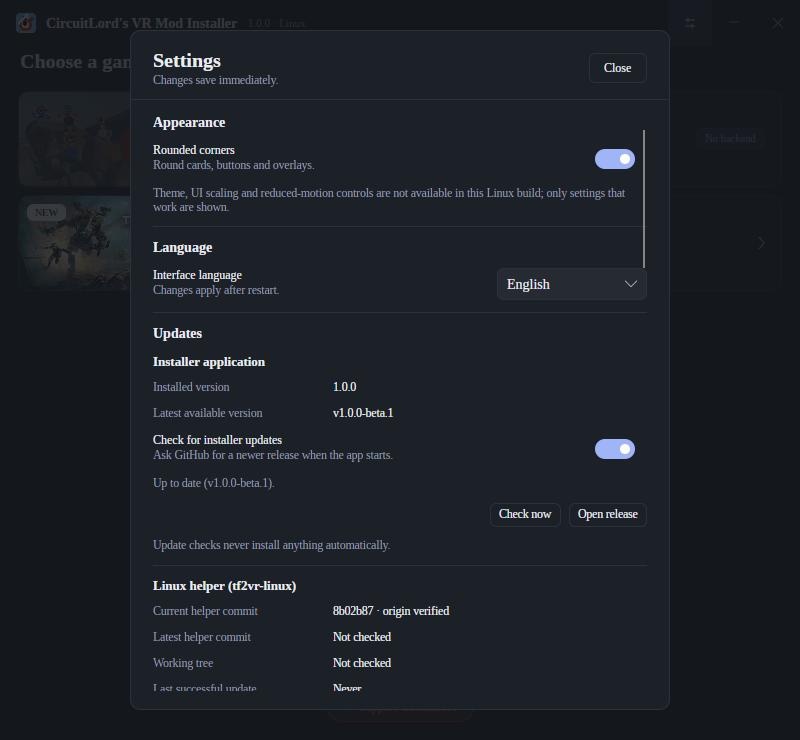
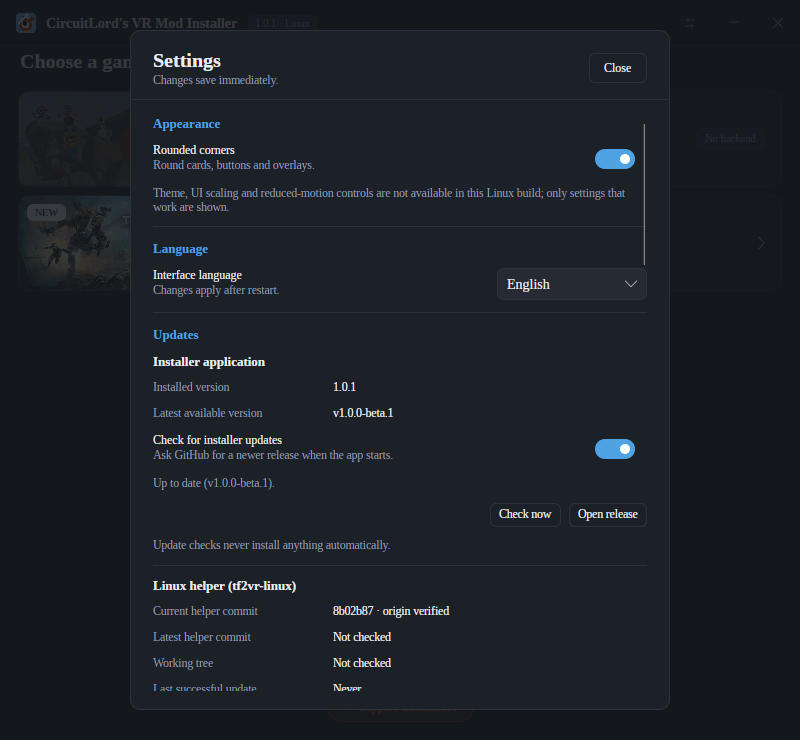
Polish the Linux interface
Frame the version in the title bar, replace the tiny back glyph, align Fluent toggles and selection states with the app accent, and slim the dark scrollbars. Improve settings section hierarchy and focus handling, remove duplicated not-installed labels, and refresh the documentation screenshots.

🤖 Generated with Codebuff

diff --git a/src/CircuitLord.VRModInstaller.App/SettingsView.axaml.cs b/src/CircuitLord.VRModInstaller.App/SettingsView.axaml.cs
@@ -52,7 +52,22 @@ public partial class SettingsView : UserControl
         this.FindControl<ScrollViewer>("SettingsScroll")!.Offset = new Vector(0, 0);
         _loading = false;
         RefreshAll();
-        this.FindControl<Button>("SettingsCloseButton")!.Focus();
+        // The overlay is only becoming visible in this pass. Move keyboard
+        // focus after layout so it cannot remain on the title-bar gear behind
+        // the modal sheet.
+        Avalonia.Threading.Dispatcher.UIThread.Post(
+            () =>
+            {
+                if (IsVisible)
+                {
+                    // Move through the sheet itself first; Avalonia otherwise
+                    // leaves the old title-bar focus adorner painted until the
+                    // next keyboard navigation.
+                    Focus();
+                    this.FindControl<Button>("SettingsCloseButton")!.Focus();
+                }
+            },
+            Avalonia.Threading.DispatcherPriority.Loaded);
     }
 
     private void CloseSettings()

diff --git a/src/CircuitLord.VRModInstaller.App/MainWindow.axaml.cs b/src/CircuitLord.VRModInstaller.App/MainWindow.axaml.cs
@@ -53,6 +53,12 @@ public partial class MainWindow : Window
         this.FindControl<TextBlock>("ChannelValue")!.Text = _vm.InstalledChannelText;
         this.FindControl<TextBlock>("HeroInstalledVersion")!.Text = _vm.InstalledVersionText;
         this.FindControl<TextBlock>("HeroChannel")!.Text = _vm.InstalledChannelText;
+        // Not installed is already the primary state; repeating it under
+        // "Installed version" and in the hero adds no information.
+        var showChannel = _vm.IsInstalled;
+        this.FindControl<TextBlock>("ChannelValue")!.IsVisible = showChannel;
+        this.FindControl<TextBlock>("HeroChannelSeparator")!.IsVisible = showChannel;
+        this.FindControl<TextBlock>("HeroChannel")!.IsVisible = showChannel;
         this.FindControl<TextBlock>("HeroStatusText")!.Text = _vm.IsInstalled
             ? Loc.Get("overviewInstalled")
             : Loc.Get("overviewNotInstalled");
